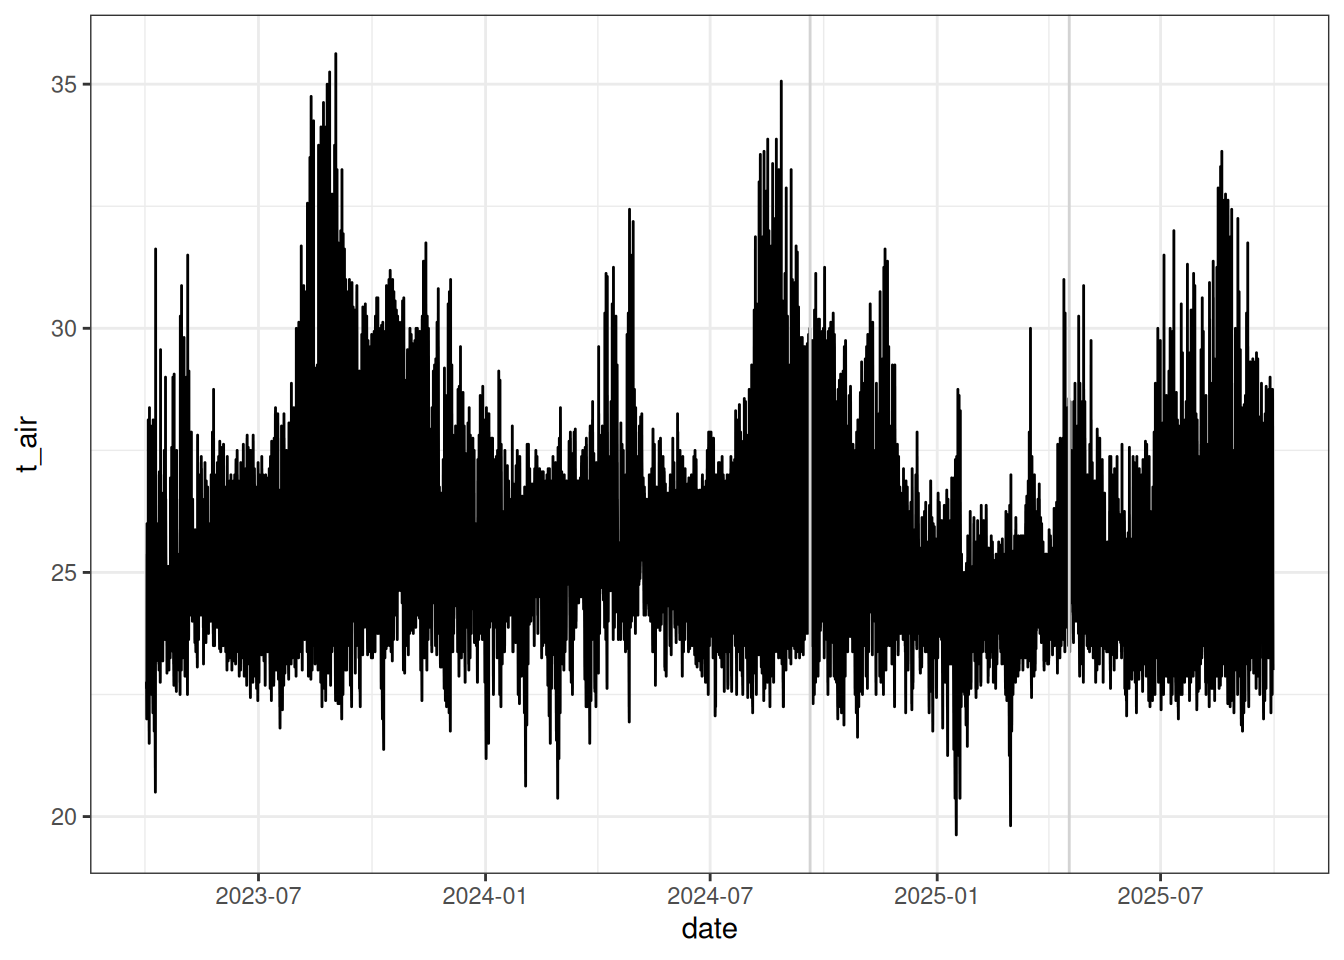
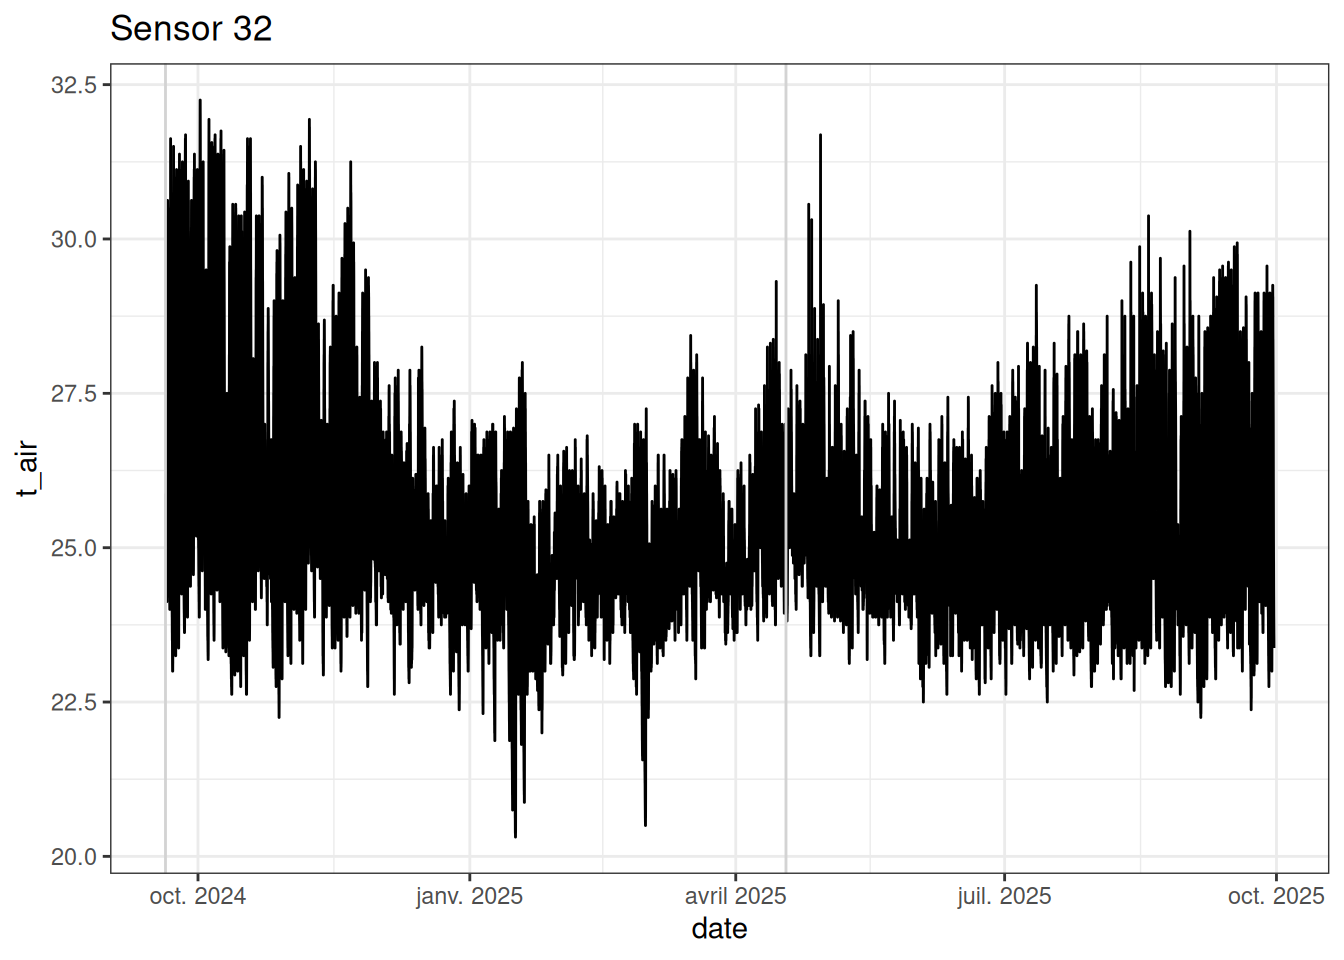
guyaclim 0.1.0.9002: adaptive decimal

diff --git a/docs/12_raw_data.html b/docs/12_raw_data.html
@@ -243,42 +243,55 @@ pre > code.sourceCode > span > a:first-child::before { text-decoration: underlin
 <div class="cell">
 <details>
 <summary>Code</summary>
-<div class="sourceCode cell-code" id="cb2"><pre class="sourceCode r code-with-copy"><code class="sourceCode r"><span id="cb2-1"><a href="#cb2-1" aria-hidden="true" tabindex="-1"></a>get_tomst_campaign <span class="ot">&lt;-</span> <span class="cf">function</span>(</span>
+<div class="sourceCode cell-code" id="cb2"><pre class="sourceCode r code-with-copy"><code class="sourceCode r"><span id="cb2-1"><a href="#cb2-1" aria-hidden="true" tabindex="-1"></a>read_data <span class="ot">&lt;-</span> <span class="cf">function</span>(</span>
 <span id="cb2-2"><a href="#cb2-2" aria-hidden="true" tabindex="-1"></a>    path,</span>
-<span id="cb2-3"><a href="#cb2-3" aria-hidden="true" tabindex="-1"></a>    metadata,</span>
-<span id="cb2-4"><a href="#cb2-4" aria-hidden="true" tabindex="-1"></a>    metadatac,</span>
-<span id="cb2-5"><a href="#cb2-5" aria-hidden="true" tabindex="-1"></a>    utc,</span>
-<span id="cb2-6"><a href="#cb2-6" aria-hidden="true" tabindex="-1"></a>    start_date,</span>
-<span id="cb2-7"><a href="#cb2-7" aria-hidden="true" tabindex="-1"></a>    stop_date</span>
-<span id="cb2-8"><a href="#cb2-8" aria-hidden="true" tabindex="-1"></a>    ) {</span>
-<span id="cb2-9"><a href="#cb2-9" aria-hidden="true" tabindex="-1"></a>  files <span class="ot">&lt;-</span> <span class="fu">list.files</span>(path, <span class="at">pattern =</span> <span class="st">"data"</span>, <span class="at">full.names =</span> <span class="cn">TRUE</span>)</span>
-<span id="cb2-10"><a href="#cb2-10" aria-hidden="true" tabindex="-1"></a>  <span class="fu">names</span>(files) <span class="ot">&lt;-</span> <span class="fu">list.files</span>(path, <span class="at">pattern =</span> <span class="st">"data"</span>, <span class="at">full.names =</span> <span class="cn">FALSE</span>)</span>
-<span id="cb2-11"><a href="#cb2-11" aria-hidden="true" tabindex="-1"></a>  data <span class="ot">&lt;-</span> files <span class="sc">%&gt;%</span> </span>
-<span id="cb2-12"><a href="#cb2-12" aria-hidden="true" tabindex="-1"></a>    <span class="fu">lapply</span>(vroom<span class="sc">::</span>vroom,</span>
-<span id="cb2-13"><a href="#cb2-13" aria-hidden="true" tabindex="-1"></a>           <span class="at">col_select =</span> <span class="dv">2</span><span class="sc">:</span><span class="dv">7</span>,</span>
-<span id="cb2-14"><a href="#cb2-14" aria-hidden="true" tabindex="-1"></a>           <span class="at">col_types =</span> <span class="fu">c</span>(<span class="st">"c"</span>, <span class="fu">rep</span>(<span class="st">"d"</span>, <span class="dv">5</span>)), </span>
-<span id="cb2-15"><a href="#cb2-15" aria-hidden="true" tabindex="-1"></a>           <span class="at">col_names =</span> F,</span>
-<span id="cb2-16"><a href="#cb2-16" aria-hidden="true" tabindex="-1"></a>           <span class="at">locale =</span> <span class="fu">locale</span>(<span class="at">decimal_mark =</span> <span class="st">","</span>)) <span class="sc">%&gt;%</span> </span>
-<span id="cb2-17"><a href="#cb2-17" aria-hidden="true" tabindex="-1"></a>    <span class="fu">bind_rows</span>(<span class="at">.id =</span> <span class="st">"file"</span>) <span class="sc">%&gt;%</span> </span>
-<span id="cb2-18"><a href="#cb2-18" aria-hidden="true" tabindex="-1"></a>    <span class="fu">mutate</span>(<span class="at">X2 =</span> <span class="fu">gsub</span>(<span class="st">"."</span>, <span class="st">"-"</span>, X2, <span class="at">fixed =</span> <span class="cn">TRUE</span>)) <span class="sc">%&gt;%</span> </span>
-<span id="cb2-19"><a href="#cb2-19" aria-hidden="true" tabindex="-1"></a>    <span class="fu">mutate</span>(<span class="at">X2 =</span> <span class="fu">as.POSIXct</span>(X2)) <span class="sc">%&gt;%</span> </span>
-<span id="cb2-20"><a href="#cb2-20" aria-hidden="true" tabindex="-1"></a>    <span class="fu">mutate</span>(<span class="at">X2 =</span> <span class="fu">as_datetime</span>(X2)) <span class="sc">%&gt;%</span> </span>
-<span id="cb2-21"><a href="#cb2-21" aria-hidden="true" tabindex="-1"></a>    <span class="fu">rename</span>(<span class="at">date =</span> X2, <span class="at">tz =</span> X3, <span class="at">t_soil =</span> X4, <span class="at">t_surface =</span> X5, <span class="at">t_air =</span> X6, <span class="at">moisture =</span> X7) <span class="sc">%&gt;%</span> </span>
-<span id="cb2-22"><a href="#cb2-22" aria-hidden="true" tabindex="-1"></a>    <span class="fu">separate</span>(file, <span class="fu">c</span>(<span class="st">"data"</span>, <span class="st">"sensornum"</span>), <span class="at">convert =</span> T) <span class="sc">%&gt;%</span> </span>
-<span id="cb2-23"><a href="#cb2-23" aria-hidden="true" tabindex="-1"></a>    <span class="fu">select</span>(<span class="sc">-</span>data, <span class="sc">-</span>tz) <span class="sc">%&gt;%</span> </span>
-<span id="cb2-24"><a href="#cb2-24" aria-hidden="true" tabindex="-1"></a>    <span class="fu">mutate</span>(<span class="at">date =</span> date <span class="sc">+</span> utc<span class="sc">*</span><span class="dv">60</span><span class="sc">*</span><span class="dv">60</span>) <span class="sc">%&gt;%</span> </span>
-<span id="cb2-25"><a href="#cb2-25" aria-hidden="true" tabindex="-1"></a>    <span class="fu">filter</span>(<span class="fu">as_date</span>(date) <span class="sc">&gt;=</span> start_date) <span class="sc">%&gt;%</span> </span>
-<span id="cb2-26"><a href="#cb2-26" aria-hidden="true" tabindex="-1"></a>    <span class="fu">filter</span>(<span class="fu">as_date</span>(date) <span class="sc">&lt;</span> stop_date)</span>
-<span id="cb2-27"><a href="#cb2-27" aria-hidden="true" tabindex="-1"></a>  metadata <span class="ot">&lt;-</span> readxl<span class="sc">::</span><span class="fu">read_xlsx</span>(metadata) <span class="sc">%&gt;%</span> </span>
-<span id="cb2-28"><a href="#cb2-28" aria-hidden="true" tabindex="-1"></a>    <span class="fu">select</span>(TomstID, TomstSensorNum) <span class="sc">%&gt;%</span> </span>
-<span id="cb2-29"><a href="#cb2-29" aria-hidden="true" tabindex="-1"></a>    <span class="fu">rename</span>(<span class="at">id =</span> TomstID, <span class="at">sensornum =</span> TomstSensorNum)</span>
-<span id="cb2-30"><a href="#cb2-30" aria-hidden="true" tabindex="-1"></a>  metadatac <span class="ot">&lt;-</span> readxl<span class="sc">::</span><span class="fu">read_xlsx</span>(metadatac) <span class="sc">%&gt;%</span> </span>
-<span id="cb2-31"><a href="#cb2-31" aria-hidden="true" tabindex="-1"></a>    <span class="fu">rename_all</span>(tolower)</span>
-<span id="cb2-32"><a href="#cb2-32" aria-hidden="true" tabindex="-1"></a>  data <span class="ot">&lt;-</span> metadata <span class="sc">%&gt;%</span> </span>
-<span id="cb2-33"><a href="#cb2-33" aria-hidden="true" tabindex="-1"></a>    <span class="fu">left_join</span>(metadatac) <span class="sc">%&gt;%</span> </span>
-<span id="cb2-34"><a href="#cb2-34" aria-hidden="true" tabindex="-1"></a>    <span class="fu">full_join</span>(data)</span>
-<span id="cb2-35"><a href="#cb2-35" aria-hidden="true" tabindex="-1"></a>  <span class="fu">return</span>(data)</span>
-<span id="cb2-36"><a href="#cb2-36" aria-hidden="true" tabindex="-1"></a>}</span></code><button title="Copy to Clipboard" class="code-copy-button"><i class="bi"></i></button></pre></div>
+<span id="cb2-3"><a href="#cb2-3" aria-hidden="true" tabindex="-1"></a>    utc,</span>
+<span id="cb2-4"><a href="#cb2-4" aria-hidden="true" tabindex="-1"></a>    start_date,</span>
+<span id="cb2-5"><a href="#cb2-5" aria-hidden="true" tabindex="-1"></a>    stop_date</span>
+<span id="cb2-6"><a href="#cb2-6" aria-hidden="true" tabindex="-1"></a>) {</span>
+<span id="cb2-7"><a href="#cb2-7" aria-hidden="true" tabindex="-1"></a>  decimal <span class="ot">&lt;-</span> <span class="fu">read_delim</span>(path, <span class="at">col_select =</span> <span class="dv">5</span>, <span class="at">col_names =</span> F, </span>
+<span id="cb2-8"><a href="#cb2-8" aria-hidden="true" tabindex="-1"></a>           <span class="at">delim =</span> <span class="st">";"</span>, <span class="at">col_types =</span> <span class="fu">list</span>(<span class="at">X5 =</span> <span class="fu">col_character</span>()), <span class="at">n_max =</span> <span class="dv">1</span>)<span class="sc">$</span>X5 <span class="sc">%&gt;%</span> </span>
+<span id="cb2-9"><a href="#cb2-9" aria-hidden="true" tabindex="-1"></a>    <span class="fu">gsub</span>(<span class="st">"[^[:punct:]]"</span>, <span class="st">""</span>, .)</span>
+<span id="cb2-10"><a href="#cb2-10" aria-hidden="true" tabindex="-1"></a>  <span class="cf">if</span>(<span class="fu">str_length</span>(decimal) <span class="sc">==</span> <span class="dv">0</span>)</span>
+<span id="cb2-11"><a href="#cb2-11" aria-hidden="true" tabindex="-1"></a>    decimal <span class="ot">&lt;-</span> <span class="fu">read_delim</span>(path, <span class="at">col_select =</span> <span class="dv">5</span>, <span class="at">col_names =</span> F, </span>
+<span id="cb2-12"><a href="#cb2-12" aria-hidden="true" tabindex="-1"></a>           <span class="at">delim =</span> <span class="st">";"</span>, <span class="at">col_types =</span> <span class="fu">list</span>(<span class="at">X5 =</span> <span class="fu">col_character</span>()), <span class="at">n_max =</span> <span class="dv">2</span>)<span class="sc">$</span>X5[<span class="dv">2</span>] <span class="sc">%&gt;%</span> </span>
+<span id="cb2-13"><a href="#cb2-13" aria-hidden="true" tabindex="-1"></a>      <span class="fu">gsub</span>(<span class="st">"[^[:punct:]]"</span>, <span class="st">""</span>, .)</span>
+<span id="cb2-14"><a href="#cb2-14" aria-hidden="true" tabindex="-1"></a>  <span class="fu">read_delim</span>(path, <span class="at">col_names =</span> <span class="cn">FALSE</span>, <span class="at">locale =</span> <span class="fu">locale</span>(<span class="at">decimal_mark =</span> decimal),</span>
+<span id="cb2-15"><a href="#cb2-15" aria-hidden="true" tabindex="-1"></a>          <span class="at">col_select =</span> <span class="fu">c</span>(<span class="dv">2</span>, <span class="dv">4</span><span class="sc">:</span><span class="dv">7</span>)) <span class="sc">%&gt;%</span> </span>
+<span id="cb2-16"><a href="#cb2-16" aria-hidden="true" tabindex="-1"></a>    <span class="fu">mutate</span>(<span class="at">X2 =</span> <span class="fu">gsub</span>(<span class="st">"."</span>, <span class="st">"-"</span>, X2, <span class="at">fixed =</span> <span class="cn">TRUE</span>)) <span class="sc">%&gt;%</span> </span>
+<span id="cb2-17"><a href="#cb2-17" aria-hidden="true" tabindex="-1"></a>    <span class="fu">mutate</span>(<span class="at">X2 =</span> <span class="fu">as.POSIXct</span>(X2)) <span class="sc">%&gt;%</span> </span>
+<span id="cb2-18"><a href="#cb2-18" aria-hidden="true" tabindex="-1"></a>    <span class="fu">mutate</span>(<span class="at">X2 =</span> <span class="fu">as_datetime</span>(X2)) <span class="sc">%&gt;%</span> </span>
+<span id="cb2-19"><a href="#cb2-19" aria-hidden="true" tabindex="-1"></a>    <span class="fu">rename</span>(<span class="at">date =</span> X2, <span class="at">t_soil =</span> X4, </span>
+<span id="cb2-20"><a href="#cb2-20" aria-hidden="true" tabindex="-1"></a>           <span class="at">t_surface =</span> X5, <span class="at">t_air =</span> X6, <span class="at">moisture =</span> X7) <span class="sc">%&gt;%</span> </span>
+<span id="cb2-21"><a href="#cb2-21" aria-hidden="true" tabindex="-1"></a>    <span class="fu">mutate</span>(<span class="at">date =</span> date <span class="sc">+</span> utc<span class="sc">*</span><span class="dv">60</span><span class="sc">*</span><span class="dv">60</span>) <span class="sc">%&gt;%</span> </span>
+<span id="cb2-22"><a href="#cb2-22" aria-hidden="true" tabindex="-1"></a>    <span class="fu">filter</span>(<span class="fu">as_date</span>(date) <span class="sc">&gt;=</span> start_date) <span class="sc">%&gt;%</span> </span>
+<span id="cb2-23"><a href="#cb2-23" aria-hidden="true" tabindex="-1"></a>    <span class="fu">filter</span>(<span class="fu">as_date</span>(date) <span class="sc">&lt;</span> stop_date)</span>
+<span id="cb2-24"><a href="#cb2-24" aria-hidden="true" tabindex="-1"></a>}</span>
+<span id="cb2-25"><a href="#cb2-25" aria-hidden="true" tabindex="-1"></a>get_tomst_campaign <span class="ot">&lt;-</span> <span class="cf">function</span>(</span>
+<span id="cb2-26"><a href="#cb2-26" aria-hidden="true" tabindex="-1"></a>    path,</span>
+<span id="cb2-27"><a href="#cb2-27" aria-hidden="true" tabindex="-1"></a>    metadata,</span>
+<span id="cb2-28"><a href="#cb2-28" aria-hidden="true" tabindex="-1"></a>    metadatac,</span>
+<span id="cb2-29"><a href="#cb2-29" aria-hidden="true" tabindex="-1"></a>    utc,</span>
+<span id="cb2-30"><a href="#cb2-30" aria-hidden="true" tabindex="-1"></a>    start_date,</span>
+<span id="cb2-31"><a href="#cb2-31" aria-hidden="true" tabindex="-1"></a>    stop_date</span>
+<span id="cb2-32"><a href="#cb2-32" aria-hidden="true" tabindex="-1"></a>    ) {</span>
+<span id="cb2-33"><a href="#cb2-33" aria-hidden="true" tabindex="-1"></a>  files <span class="ot">&lt;-</span> <span class="fu">list.files</span>(path, <span class="at">pattern =</span> <span class="st">"data"</span>, <span class="at">full.names =</span> <span class="cn">TRUE</span>)</span>
+<span id="cb2-34"><a href="#cb2-34" aria-hidden="true" tabindex="-1"></a>  <span class="fu">names</span>(files) <span class="ot">&lt;-</span> <span class="fu">list.files</span>(path, <span class="at">pattern =</span> <span class="st">"data"</span>, <span class="at">full.names =</span> <span class="cn">FALSE</span>)</span>
+<span id="cb2-35"><a href="#cb2-35" aria-hidden="true" tabindex="-1"></a>  data <span class="ot">&lt;-</span> files <span class="sc">%&gt;%</span> </span>
+<span id="cb2-36"><a href="#cb2-36" aria-hidden="true" tabindex="-1"></a>    <span class="fu">lapply</span>(read_data, utc, start_date, stop_date) <span class="sc">%&gt;%</span> </span>
+<span id="cb2-37"><a href="#cb2-37" aria-hidden="true" tabindex="-1"></a>    <span class="fu">bind_rows</span>(<span class="at">.id =</span> <span class="st">"file"</span>) <span class="sc">%&gt;%</span> </span>
+<span id="cb2-38"><a href="#cb2-38" aria-hidden="true" tabindex="-1"></a>    <span class="fu">separate</span>(file, <span class="fu">c</span>(<span class="st">"data"</span>, <span class="st">"sensornum"</span>), <span class="at">convert =</span> T) <span class="sc">%&gt;%</span> </span>
+<span id="cb2-39"><a href="#cb2-39" aria-hidden="true" tabindex="-1"></a>    <span class="fu">select</span>(<span class="sc">-</span>data)</span>
+<span id="cb2-40"><a href="#cb2-40" aria-hidden="true" tabindex="-1"></a>  metadata <span class="ot">&lt;-</span> readxl<span class="sc">::</span><span class="fu">read_xlsx</span>(metadata) <span class="sc">%&gt;%</span> </span>
+<span id="cb2-41"><a href="#cb2-41" aria-hidden="true" tabindex="-1"></a>    <span class="fu">select</span>(TomstID, TomstSensorNum) <span class="sc">%&gt;%</span> </span>
+<span id="cb2-42"><a href="#cb2-42" aria-hidden="true" tabindex="-1"></a>    <span class="fu">rename</span>(<span class="at">id =</span> TomstID, <span class="at">sensornum =</span> TomstSensorNum)</span>
+<span id="cb2-43"><a href="#cb2-43" aria-hidden="true" tabindex="-1"></a>  metadatac <span class="ot">&lt;-</span> readxl<span class="sc">::</span><span class="fu">read_xlsx</span>(metadatac) <span class="sc">%&gt;%</span> </span>
+<span id="cb2-44"><a href="#cb2-44" aria-hidden="true" tabindex="-1"></a>    <span class="fu">rename_all</span>(tolower)</span>
+<span id="cb2-45"><a href="#cb2-45" aria-hidden="true" tabindex="-1"></a>  data <span class="ot">&lt;-</span> metadata <span class="sc">%&gt;%</span> </span>
+<span id="cb2-46"><a href="#cb2-46" aria-hidden="true" tabindex="-1"></a>    <span class="fu">left_join</span>(metadatac) <span class="sc">%&gt;%</span> </span>
+<span id="cb2-47"><a href="#cb2-47" aria-hidden="true" tabindex="-1"></a>    <span class="fu">full_join</span>(data)</span>
+<span id="cb2-48"><a href="#cb2-48" aria-hidden="true" tabindex="-1"></a>  <span class="fu">return</span>(data)</span>
+<span id="cb2-49"><a href="#cb2-49" aria-hidden="true" tabindex="-1"></a>}</span></code><button title="Copy to Clipboard" class="code-copy-button"><i class="bi"></i></button></pre></div>
 </details>
 </div>
 <div class="cell">
@@ -471,7 +484,26 @@ pre > code.sourceCode > span > a:first-child::before { text-decoration: underlin
 <span id="cb7-6"><a href="#cb7-6" aria-hidden="true" tabindex="-1"></a>  <span class="fu">geom_vline</span>(<span class="at">xintercept =</span> <span class="fu">c</span>(</span>
 <span id="cb7-7"><a href="#cb7-7" aria-hidden="true" tabindex="-1"></a>    <span class="fu">as_datetime</span>(<span class="st">"2024-09-20 00:00:00"</span>),</span>
 <span id="cb7-8"><a href="#cb7-8" aria-hidden="true" tabindex="-1"></a>    <span class="fu">as_datetime</span>(<span class="st">"2025-04-18 00:00:00"</span>)</span>
-<span id="cb7-9"><a href="#cb7-9" aria-hidden="true" tabindex="-1"></a>  ), <span class="at">col =</span> <span class="st">'lightgrey'</span>)</span></code><button title="Copy to Clipboard" class="code-copy-button"><i class="bi"></i></button></pre></div>
+<span id="cb7-9"><a href="#cb7-9" aria-hidden="true" tabindex="-1"></a>  ), <span class="at">col =</span> <span class="st">'lightgrey'</span>) <span class="sc">+</span></span>
+<span id="cb7-10"><a href="#cb7-10" aria-hidden="true" tabindex="-1"></a>  <span class="fu">ggtitle</span>(<span class="st">"Sensor 1"</span>)</span></code><button title="Copy to Clipboard" class="code-copy-button"><i class="bi"></i></button></pre></div>
+</details>
+<div class="cell-output-display">
+<p><img src="12_raw_data_files/figure-html/get_sensor-project_res1-1.png" class="img-fluid" width="672"></p>
+</div>
+</div>
+<div class="cell">
+<details>
+<summary>Code</summary>
+<div class="sourceCode cell-code" id="cb8"><pre class="sourceCode r code-with-copy"><code class="sourceCode r"><span id="cb8-1"><a href="#cb8-1" aria-hidden="true" tabindex="-1"></a><span class="fu">read_tsv</span>(<span class="st">"tests/test_sensor-project.tsv"</span>) <span class="sc">%&gt;%</span> </span>
+<span id="cb8-2"><a href="#cb8-2" aria-hidden="true" tabindex="-1"></a>  <span class="fu">filter</span>(id <span class="sc">==</span> <span class="dv">32</span>) <span class="sc">%&gt;%</span> </span>
+<span id="cb8-3"><a href="#cb8-3" aria-hidden="true" tabindex="-1"></a>  <span class="fu">ggplot</span>(<span class="fu">aes</span>(date, t_air)) <span class="sc">+</span></span>
+<span id="cb8-4"><a href="#cb8-4" aria-hidden="true" tabindex="-1"></a>  <span class="fu">geom_line</span>() <span class="sc">+</span></span>
+<span id="cb8-5"><a href="#cb8-5" aria-hidden="true" tabindex="-1"></a>  <span class="fu">theme_bw</span>() <span class="sc">+</span></span>
+<span id="cb8-6"><a href="#cb8-6" aria-hidden="true" tabindex="-1"></a>  <span class="fu">geom_vline</span>(<span class="at">xintercept =</span> <span class="fu">c</span>(</span>
+<span id="cb8-7"><a href="#cb8-7" aria-hidden="true" tabindex="-1"></a>    <span class="fu">as_datetime</span>(<span class="st">"2024-09-20 00:00:00"</span>),</span>
+<span id="cb8-8"><a href="#cb8-8" aria-hidden="true" tabindex="-1"></a>    <span class="fu">as_datetime</span>(<span class="st">"2025-04-18 00:00:00"</span>)</span>
+<span id="cb8-9"><a href="#cb8-9" aria-hidden="true" tabindex="-1"></a>  ), <span class="at">col =</span> <span class="st">'lightgrey'</span>) <span class="sc">+</span></span>
+<span id="cb8-10"><a href="#cb8-10" aria-hidden="true" tabindex="-1"></a>  <span class="fu">ggtitle</span>(<span class="st">"Sensor 32"</span>)</span></code><button title="Copy to Clipboard" class="code-copy-button"><i class="bi"></i></button></pre></div>
 </details>
 <div class="cell-output-display">
 <p><img src="12_raw_data_files/figure-html/get_sensor-project_res-1.png" class="img-fluid" width="672"></p>

diff --git a/NEWS.md b/NEWS.md
@@ -1,1 +1,2 @@
+-   guyaclim 0.1.0.9002: adaptive decimal
 -   guyaclim 0.1.0.9001: init
